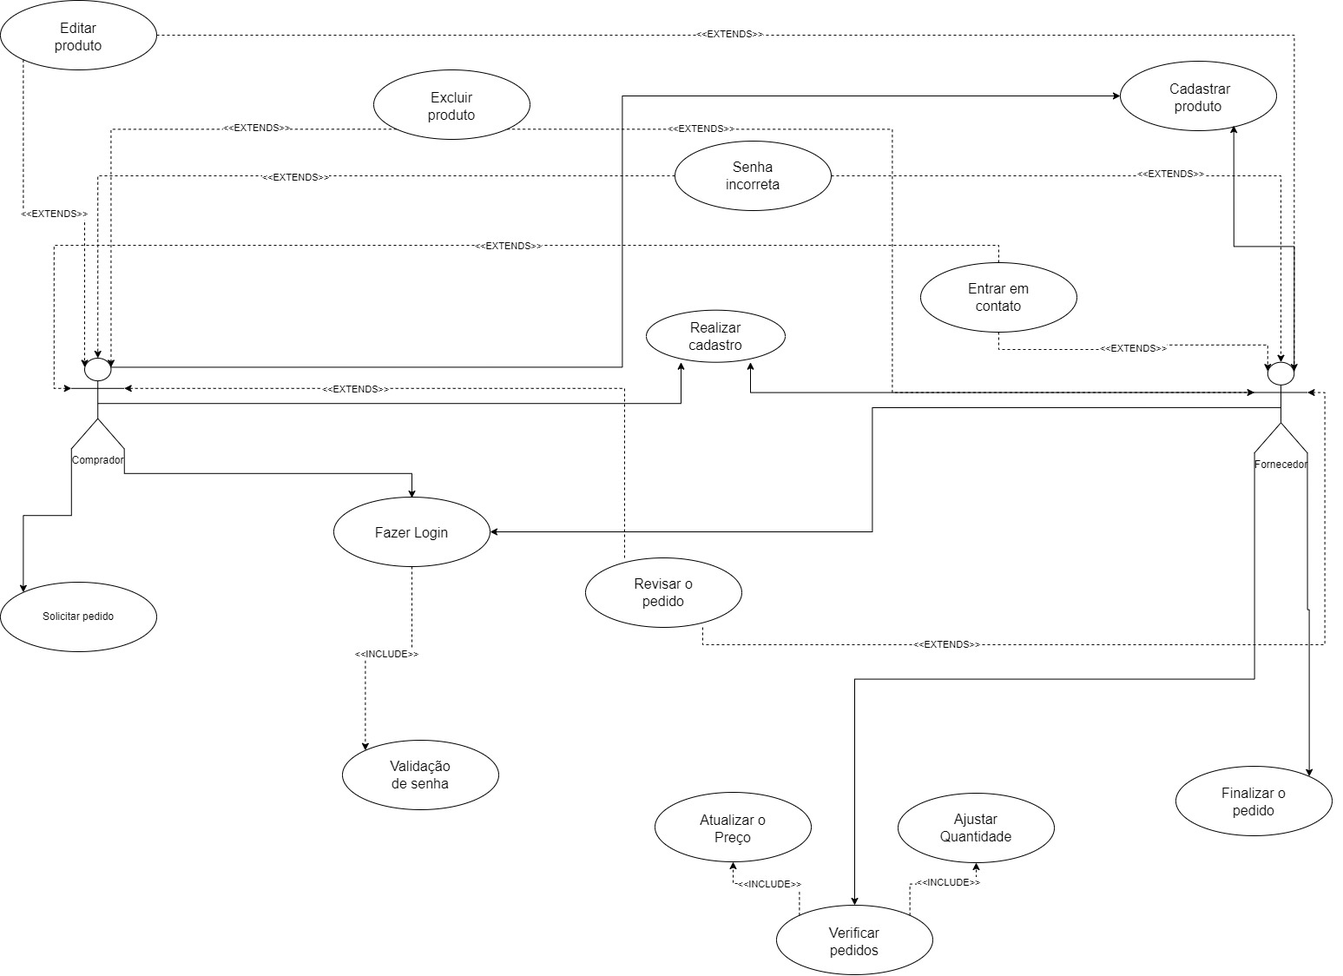
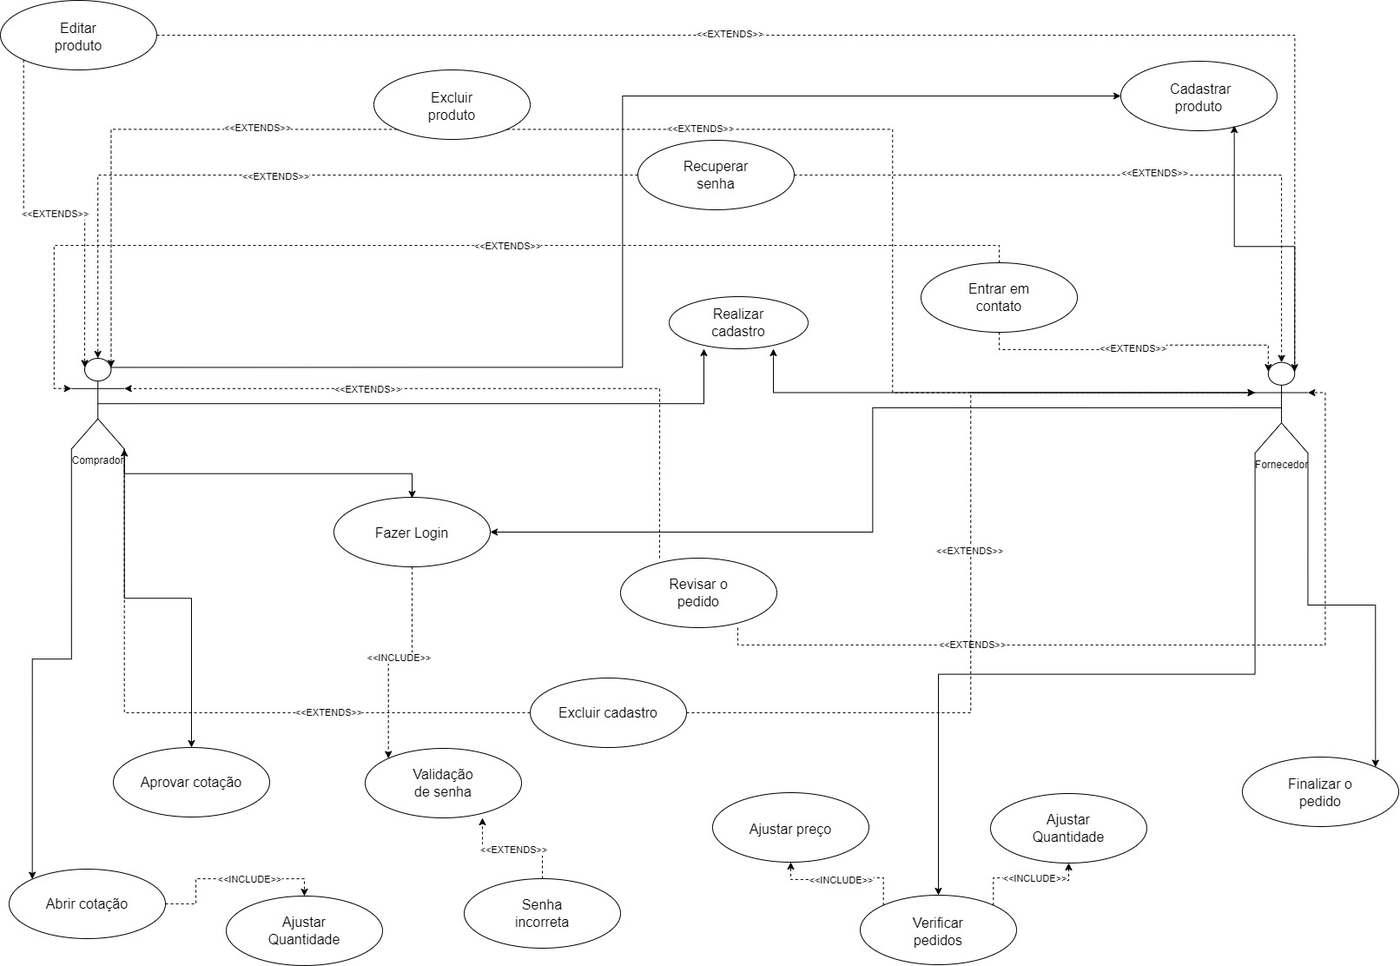
Atualizações docs 02, 08 e 10

diff --git a/docs/08-Plano de Testes de Software.md b/docs/08-Plano de Testes de Software.md
@@ -1,57 +1,58 @@
 # Plano de Testes de Software
 
-<span style="color:red">Pré-requisitos: <a href="2-Especificação do Projeto.md"> Especificação do Projeto</a></span>, <a href="3-Projeto de Interface.md"> Projeto de Interface</a>
+<span style="color:red">Pré-requisitos: <a href="02-Especificação do Projeto.md"> Especificação do Projeto</a></span>, <a href="03-Projeto de Interface.md"> Projeto de Interface</a>
 
-Os requisitos para realização dos testes de software são: <br>
- * Aplicação publicada na Internet <br>
- * Navegador da Internet - Chrome, Firefox ou Edge <br>
+Os requisitos para realização dos testes de software são:
 
-Os testes funcionais a serem realizados no aplicativo são descritos a seguir.
- 
-| **Caso de Teste** 	| **CT-01 – Cadastro de usuário** 	|
-|:---:	|:---:	|
-|	Requisito Associado 	| RF-08 - O sistema deve permitir que o fornecedor e o comprador possam cadastrar, alterar e excluir seu cadastro. |
-| Objetivo do Teste 	| Verificar se o cadastro de usuário funciona conforme especificado nos requisitos funcionais. |
-| Passos 	| 1) Acessar o Navegador <br> 2) Informar o endereço da aplicação <br> 3) Visualizar a página inicial <br> 4) Clicar em “Fazer cadastro” <br> 5) Realizar cadastro do usuário |
-|Critério de Êxito | O sistema deve permitir a criação de cadastros, a leitura dos dados desses cadastros, a atualização dos dados e, se necessário, a exclusão dessas informações. As informações devem ficar em um banco de dados. |
-|  	|  	|
-| Caso de Teste 	| **CT-02 – Ajustar preço**	|
+- Aplicação publicada na Internet
+- Navegador da Internet - Chrome, Firefox ou Edge
+
+Os testes funcionais a serem realizados na aplicação são descritos a seguir.
+
+| Caso de Teste | **CT-01 – Ajustar preço** |
 | Requisito Associado | RF-01 - O sistema deve permitir que os fornecedores ajustem o preço para cada comprador correspondente. |
-| Objetivo do Teste 	|Verificar se os campos de preços são editáveis apenas para o fornecedor. |
-| Passos 	| 1) Acessar o Navegador <br> 2) Informar o endereço da aplicação <br> 3) Inserir informações para o login <br> 4) Abrir a solicitação de cotação feita pelo comprador <br> 5) Inserir os preços correspondentes aos produtos |
-|Critério de Êxito | O sistema deve permitir que o fornecedor altere os preços de seus produtos através de campos editáveis. |
-|   |   |
-| Caso de Teste | **CT-03 - Ajustar quantidades de produtos** |
+| Objetivo do Teste | Verificar se os campos de preços são editáveis para o fornecedor. |
+| Passos | 1) Acessar o Navegador <br> 2) Informar o endereço da aplicação <br> 3) Inserir informações para o login <br> 4) Abrir a solicitação de cotação feita pelo comprador <br> 5) Inserir os preços correspondentes aos produtos |
+| Critério de Êxito | O sistema deve permitir que o fornecedor altere os preços de seus produtos através de campos editáveis. |
+
+| Caso de Teste | **CT-02 - Ajustar quantidades de produtos** |
 | Requisito Associado | RF-02 - O sistema deve permitir que o comprador e fornecedor ajustem a quantidade de itens solicitados. |
 | Objetivo do Teste | Verificar se os campos de quantidades de produtos são editáveis para os usuários fornecedor e comprador. |
-| Passos | 1) Acessar o Navegador <br> 2) Informar o endereço da aplicação <br> 3) Inserir informações para o login <br> 4) Abrir a solicitação de cotação feita pelo comprador <br> 5) Inserir as quantidades de itens desejadas ou disponíveis em estoque |
+| Passos | 1) Acessar o Navegador <br> 2) Informar o endereço da aplicação <br> 3) Inserir informações para o login <br> 4) Abrir uma nova cotação (comprador) <br> 5) Abrir a solicitação de cotação feita pelo comprador (fornecedor) <br> 6) Inserir as quantidades de itens desejadas ou disponíveis em estoque |
 | Critérios de Êxito | O sistema deve permitir que o comprador possa colocar a quantidade de itens desejados na solicitação, e deve permitir que o fornecedor ajuste a quantidade de itens solicitados na cotação de acordo com seu estoque. |
-|   |   | 
-| Caso de Teste | **CT-04 - Mensagem de aviso sobre a cotação** |
+
+| Caso de Teste | **CT-03 - Mensagem de aviso sobre a cotação** |
 | Requisito Associado | RF-03 - O sistema deve enviar uma mensagem informando a abertura e fechamento da cotação solicitada. |
-| Objetivo do Teste | Verificar se o sistema irá emitir corretamente uma mensagem de abertura ou fechamento da cotação quando um botão específico com essas funções for disparado. |
-| Passos | 1) Acessar o Navegador <br> 2) Informar o endereço da aplicação <br> 3) Inserir informações para o login <br> 4) Abrir a solicitação de cotação feita pelo comprador <br> 5) Inserir as quantidades de itens desejadas ou disponíveis em estoque <br> 6) Clicar em “Abrir cotação” ou em "Fechar cotação” |
-| Critérios de Êxito | O sistema deve reconhecer a ação e enviar uma mensagem aos usuários que estão participando da cotação, informando se a solicitação foi iniciada ou finalizada. 
-|   |   | 
-| Caso de Teste | **CT-05 - Comunicação entre os usuários** |
-| Requisito Associado | RF-05 - O sistema deve permitir um canal de comunicação entre fornecedor e comprador. |
+| Objetivo do Teste | Verificar se o sistema irá emitir corretamente uma mensagem de abertura e fechamento da cotação quando um botão específico com essas funções for disparado. |
+| Passos | 1) Acessar o Navegador <br> 2) Informar o endereço da aplicação <br> 3) Inserir informações para o login <br> 4) Abrir uma cotação com todas as informações necessárias (comprador) 5) Abrir a solicitação de cotação feita pelo comprador (fornecedor) <br> 6) Ajustar informações <br> 7) Fechar cotação |
+| Critérios de Êxito | O sistema deve reconhecer a ação e enviar uma mensagem aos fornecedores e compradores, informando se a solicitação foi iniciada ou finalizada. |
+
+| Caso de Teste | **CT-04 - Comunicação entre os usuários** |
+| Requisito Associado | RF-04 - O sistema deve permitir um canal de comunicação entre fornecedor e comprador. |
 | Objetivo do Teste | Verificar se o fornecedor e o comprador têm uma comunicação clara através dos canais de comunicação disponibilizados pela aplicação. |
-| Passos | 1) Acessar o Navegador <br> 2) Informar o endereço da aplicação <br> 3) Inserir informações para o login <br> 4) Clicar em “Chat” e iniciar a conversa
-| Critérios de Êxito | Os usuários devem conseguir se comunicar de forma eficaz, através de um canal de comunicação interno da aplicação. |
-|   |   | 
-| Casos de Teste | **CT-06 - Revisão do pedido** |
-| Requisito Associado | RF-06 - O sistema deve permitir que o comprador e fornecedor possam fazer a revisão do pedido antes do fechamento e do envio da mensagem. |
+| Passos | 1) Acessar o Navegador <br> 2) Informar o endereço da aplicação <br> 3) Inserir informações para o login <br> 4) Clicar em “Chat” e iniciar a conversa |
+| Critérios de Êxito | Os usuários devem conseguir enviar e receber mensagens através de um canal de comunicação interno da aplicação. |
+
+| Casos de Teste | **CT-05 - Revisão do pedido** |
+| Requisito Associado | RF-05 - O sistema deve permitir que o comprador e fornecedor possam fazer a revisão do pedido antes do fechamento e do envio da mensagem. |
 | Objetivo do Teste | Verificar se os usuários envolvidos na cotação conseguem fazer uma revisão do pedido antes do fechamento. |
-| Passos | 1) Acessar o Navegador <br> 2) Informar o endereço da aplicação <br> 3) Inserir informações para o login <br> 4) Abrir a solicitação de cotação feita pelo comprador <br> 5) Verificar a quantidade de itens e de preços da cotação
+| Passos | 1) Acessar o Navegador <br> 2) Informar o endereço da aplicação <br> 3) Inserir informações para o login <br> 4) Abrir a solicitação de cotação feita pelo comprador <br> 5) Verificar informações e fechar cotação |
 | Critérios de Êxito | Os usuários devem conseguir acessar a cotação em andamento para fazer uma revisão dos itens solicitados. |
-|   |   | 
-| Caso de Teste | **CT-07 - Fechamento da cotação** |
-| Requisito Associado | Verificar se os usuários conseguem executar a ação sem que ocorram erros durante o processo. |
-| Objetivo do Teste | 1) Acessar o Navegador <br> 2) Informar o endereço da aplicação <br> 3) Inserir informações para o login <br> 4) Abrir a solicitação de cotação feita pelo comprador <br> 5) Clicar no botão “Fechar cotação”
-| Critérios de Êxito | O fornecedor deve conseguir fechar o pedido sem dificuldades, e o comprador deve conseguir finalizar o processo de cotação. |
-|   |   | 
-| Caso de Teste | **CT-08 - Cadastro de produtos** | 
-| Requisito Associado | RF-07 - O sistema deve permitir o cadastro, edição e exclusão dos produtos de hortifruti contendo imagem, nome, código único do item e quantidade em estoque. |
+
+| Caso de Teste | **CT-06 - Cadastro de produtos** |
+| Requisito Associado | RF-06 - O sistema deve permitir o cadastro, edição e exclusão dos produtos de hortifruti contendo imagem, nome, código único do item e quantidade em estoque. |
 | Objetivo do teste | Verificar se o cadastro dos produtos é feito de acordo com as especificações dos requisitos funcionais. |
 | Passos | 1) Acessar o Navegador <br> 2) Informar o endereço da aplicação <br> 3) Inserir informações para o login <br> 4) No menu principal, clicar em “Cadastrar produto” <br> 5) Efetuar cadastro, alteração ou exclusão dos dados |
-| Critérios de Êxito | O sistema deve permitir a criação de cadastros, a leitura dos dados desses cadastros, a atualização dos dados e, se necessário, a exclusão dessas informações. As informações devem ficar em um banco de dados. | 
+| Critérios de Êxito | O sistema deve permitir a criação de cadastros, a leitura dos dados desses cadastros, a atualização dos dados e, se necessário, a exclusão dessas informações. As informações devem ficar em um banco de dados. |
+
+| Caso de Teste | **CT-07 – Cadastro de usuário** |
+| Requisito Associado | RF-07 - O sistema deve permitir que o fornecedor e comprador possam cadastrar, alterar e excluir seu cadastro. |
+| Objetivo do Teste | Verificar se o cadastro de usuário funciona conforme especificado nos requisitos funcionais. |
+| Passos | 1) Acessar o Navegador <br> 2) Informar o endereço da aplicação <br> 3) Visualizar a página inicial <br> 4) Clicar em “Fazer cadastro” <br> 5) Realizar cadastro do usuário |
+| Critério de Êxito | O sistema deve permitir a criação de cadastros, a leitura dos dados desses cadastros, a atualização dos dados e, se necessário, a exclusão dessas informações. As informações devem ficar em um banco de dados. |
+
+| Caso de Teste | **CT-08 - Fechamento da cotação** |
+| Requisito Associado | RF-08 - O sistema deve permitir que o fornecedor feche o pedido e que o comprador finalize a cotação após a revisão. |
+| Objetivo do Teste | Verificar se os usuários conseguem executar a ação sem que ocorram erros durante o processo. |
+| Passos | 1) Acessar o Navegador <br> 2) Informar o endereço da aplicação <br> 3) Inserir informações para o login <br> 4) Abrir a solicitação de cotação feita pelo comprador <br> 5) Clicar no botão “Fechar cotação” |
+| Critérios de Êxito | O fornecedor deve conseguir fechar o pedido sem dificuldades, e o comprador deve conseguir finalizar o processo de cotação. |

diff --git a/docs/10-Plano de Testes de Usabilidade.md b/docs/10-Plano de Testes de Usabilidade.md
@@ -4,49 +4,50 @@ O propósito deste teste é verificar a performance alcançada pelos participant
 
 O objetivo da aplicação é realizar a cotação e os pedidos de alimentos no setor de hortifruti, permitindo a comunicação entre fornecedor e comprador, facilitando o envio de pedidos.
 
-Os testes vão acontecer de maneira remota, utilizando quatro participantes, sendo dois compradores e dois fornecedores, com experiência em hortifruti, contendo uma lista de comando voltada para o comprador e outra para o fornecedor.  
+Os testes vão acontecer de maneira remota, utilizando quatro participantes, sendo dois compradores e dois fornecedores, com experiência em hortifruti, contendo uma lista de tarefas voltadas para o comprador e outra para o fornecedor.
 
-### Lista de tarefas para compradores
+## Lista de tarefas
 
-| Número da Tarefa | Descrição da Tarefa                                                   |
-| -----------------| --------------------------------------------------------------------- |
-|        01        | Autentique-se no sistema, caso não possua conta, crie uma             |
-|        02        | Na aba perfil altere seus dados pessoais                              |
-|        03        | Na aba cadastro, incluía um produto                                   |
-|        04        | Dirija-se a aba cotação e crie sua cotação                            |
-|        05        | Entre na aba contato e tire suas dúvidas                              |
-|        06        | Volte na cotação, faça a revisão do pedido e ajuste a quantidade      |
-|        07        | Enviar cotação                                                        |
-|        08        | Feche o pedido e finalize a cotação                                   |
+### Compradores
 
+| Número da Tarefa | Descrição da Tarefa                                              |
+| ---------------- | ---------------------------------------------------------------- |
+| 01               | Autentique-se no sistema. Caso não possua conta, crie uma        |
+| 02               | Faça o cadastro, alteração e exclusão do seu perfil              |
+| 03               | Na menu cadastrar produto, inclua um item                        |
+| 04               | Na página inicial, abra uma cotação                              |
+| 05               | Entre no menu de chat e envie uma mensagem                       |
+| 06               | Volte na cotação, faça a revisão do pedido e ajuste a quantidade |
+| 07               | Envie a cotação alterada                                         |
+| 08               | Feche o pedido e finalize a cotação                              |
 
-### Lista de tarefas para fornecedores
+### Fornecedores
 
-| Número da Tarefa | Descrição da Tarefa                                                   |
-| -----------------| --------------------------------------------------------------------- |
-|        01        | Autentique-se no sistema, caso não possua conta, crie uma             |
-|        02        | Na aba perfil altere seus dados pessoais                              |
-|        03        | Na aba cadastro, incluía um produto                                   |
-|        04        | O sistema lhe enviará uma mensagem informando a abertura de cotação   |
-|        05        | Dirija-se a aba cotação, em abrir notificações                        |
-|        06        | Dirija-se a aba cotação e faça alteração e ajuste das quantidades e preços|
-|        07        | Encaminhar cotação atualizada ao comprador                            |
-|        08        | Entre na aba contato e tire suas dúvidas                              |
+| Número da Tarefa | Descrição da Tarefa                                       |
+| ---------------- | --------------------------------------------------------- |
+| 01               | Autentique-se no sistema. Caso não possua conta, crie uma |
+| 02               | Faça o cadastro, alteração e exclusão do seu perfil       |
+| 03               | Na menu cadastrar produto, inclua um item                 |
+| 04               | Verifique os pedidos recebidos na página inicial          |
+| 05               | Dirija-se a aba cotação, em abrir notificações            |
+| 06               | Abra a cotação e faça ajustes nas quantidades e preços    |
+| 07               | Encaminhe a cotação atualizada ao comprador               |
+| 08               | Entre no menu de chat e envie uma mensagem                |
 
-Por meio deste questionário colheremos informações sobre as opiniões dos participantes do teste de usabilidade, que será realizado na aplicação HortiDot. As informações fornecidas são vitais para o aprimoramento do sistema. 
+Por meio deste questionário vamos colher informações sobre as opiniões dos participantes do teste de usabilidade, que será realizado na aplicação HortiDot. As informações fornecidas são vitais para o aprimoramento do sistema.
 
-### Questionário de avaliação de usabilidade (SUS)
+## Questionário de avaliação de usabilidade (SUS)
 
 Nas questões, marcar com X o número correspondente ao grau de concordância, deverá ser marcada somente uma resposta.
 
-|                        Avaliação                         |Muito ruim|  Ruim  |  Bom  | Ótimo |Excelente|       
-| ---------------------------------------------------------| ---------| -------| ------| ------|---------| 
-|                                                          |     1    |   2    |   3   |   4   |     5   |
-| Achou o sistema fácil de usar?                           |          |        |       |       |         |
-| A interface do sistema é agradável?                      |          |        |       |       |         |
-| Foi fácil encontrar a informação que precisava?          |          |        |       |       |         |
-| O que achou do Layout das telas?                         |          |        |       |       |         |
-| Sentiu-se confortável com este sistema?                  |          |        |       |       |         |
-| A organização de informações na tela do sistema é clara? |          |        |       |       |         |
-| Gostaria de usar este sistema com frequência?            |          |        |       |       |         |
-| No geral, como foi a realização do teste?                |          |        |       |       |         |
+| Avaliação                                                | Muito ruim | Ruim | Bom | Ótimo | Excelente |
+| -------------------------------------------------------- | ---------- | ---- | --- | ----- | --------- |
+|                                                          | 1          | 2    | 3   | 4     | 5         |
+| Achou o sistema fácil de usar?                           |            |      |     |       |           |
+| A interface do sistema é agradável?                      |            |      |     |       |           |
+| Foi fácil encontrar a informação que precisava?          |            |      |     |       |           |
+| O que achou do Layout das telas?                         |            |      |     |       |           |
+| Sentiu-se confortável com este sistema?                  |            |      |     |       |           |
+| A organização de informações na tela do sistema é clara? |            |      |     |       |           |
+| Gostaria de usar este sistema com frequência?            |            |      |     |       |           |
+| No geral, como foi a realização do teste?                |            |      |     |       |           |

diff --git a/docs/02-Especificação do Projeto.md b/docs/02-Especificação do Projeto.md
@@ -50,7 +50,7 @@ A empresa de Ana trabalha com fornecimento há muito tempo. Ela adora ser respon
 
 ## Histórias de Usuários
 
-Com base na análise das personas forma identificadas as seguintes histórias de usuários:
+Com base na análise das personas foram identificadas as seguintes histórias de usuários:
 
 | EU COMO... `PERSONA` | QUERO/PRECISO ... `FUNCIONALIDADE`                                                    | PARA ... `MOTIVO/VALOR`                                      |
 | -------------------- | ------------------------------------------------------------------------------------- | ------------------------------------------------------------ |
@@ -74,23 +74,22 @@ A tabela a seguir apresenta os requisitos do projeto, identificando a prioridade
 | RF-01 | O sistema deve permitir que os fornecedores ajustem o preço para cada comprador correspondente.                                                       | ALTA       |
 | RF-02 | O sistema deve permitir que o comprador e fornecedor ajustem a quantidade de itens solicitados.                                                       | ALTA       |
 | RF-03 | O sistema deve enviar uma mensagem informando a abertura e fechamento da cotação solicitada.                                                          | MÉDIA      |
-| RF-04 | O sistema deve mostrar o nome do fornecedor com clareza.                                                                                              | MÉDIA      |
-| RF-05 | O sistema deve permitir um canal de comunicação entre fornecedor e comprador.                                                                         | ALTA       |
-| RF-06 | O sistema deve permitir que o comprador e fornecedor possam fazer a revisão do pedido antes do fechamento e do envio da mensagem.                     | ALTA       |
-| RF-07 | O sistema deve permitir o cadastro, edição e exclusão dos produtos de hortifruti contendo imagem, nome, código único do item e quantidade em estoque. | ALTA       |
-| RF-08 | O sistema deve permitir que o fornecedor e comprador possam cadastrar, alterar e excluir seu cadastro.                                                | ALTA       |
-| RF-09 | O sistema deve permitir que o fornecedor feche o pedido e que o comprador finalize a cotação após a revisão.                                          | ALTA       |
+| RF-04 | O sistema deve permitir um canal de comunicação entre fornecedor e comprador.                                                                         | ALTA       |
+| RF-05 | O sistema deve permitir que o comprador e fornecedor possam fazer a revisão do pedido antes do fechamento e do envio da mensagem.                     | ALTA       |
+| RF-06 | O sistema deve permitir o cadastro, edição e exclusão dos produtos de hortifruti contendo imagem, nome, código único do item e quantidade em estoque. | ALTA       |
+| RF-07 | O sistema deve permitir que o fornecedor e comprador possam cadastrar, alterar e excluir seu cadastro.                                                | ALTA       |
+| RF-08 | O sistema deve permitir que o fornecedor feche o pedido e que o comprador finalize a cotação após a revisão.                                          | ALTA       |
 
 ### Requisitos não Funcionais
 
 A tabela a seguir apresenta os requisitos não funcionais que o projeto deverá atender.
 
-| ID     | Descrição do Requisito                                                                                                                                        | Prioridade |
-| ------ | ------------------------------------------------------------------------------------------------------------------------------------------------------------- | ---------- |
-| RNF-01 | O site deve ser publicado em um ambiente acessível publicamente na Internet (a definir).                                                                      | ALTA       |
-| RNF-02 | O site deverá ser responsivo permitindo a visualização em um celular de forma acessível                                                                       | ALTA       |
-| RNF-03 | O site deve ser compatível com os principais navegadores do mercado.                                                                                          | ALTA       |
-| RNF-04 | O site deve cumprir com boas práticas de acessibilidade, como por exemplo: contraste adequado, atributos para leitores de tela, tags semânticas em HTML, etc. | MÉDIA      |
+| ID     | Descrição do Requisito                                                                                                                                             | Prioridade |
+| ------ | ------------------------------------------------------------------------------------------------------------------------------------------------------------------ | ---------- |
+| RNF-01 | A aplicação deve ser publicada em um ambiente acessível publicamente na Internet (a definir).                                                                      | ALTA       |
+| RNF-02 | A aplicação deve ser responsiva permitindo a visualização em um celular de forma acessível                                                                         | ALTA       |
+| RNF-03 | A aplicação deve ser compatível com os principais navegadores do mercado.                                                                                          | ALTA       |
+| RNF-04 | A aplicação deve cumprir com boas práticas de acessibilidade, como por exemplo: contraste adequado, atributos para leitores de tela, tags semânticas em HTML, etc. | MÉDIA      |
 
 ## Restrições
 
